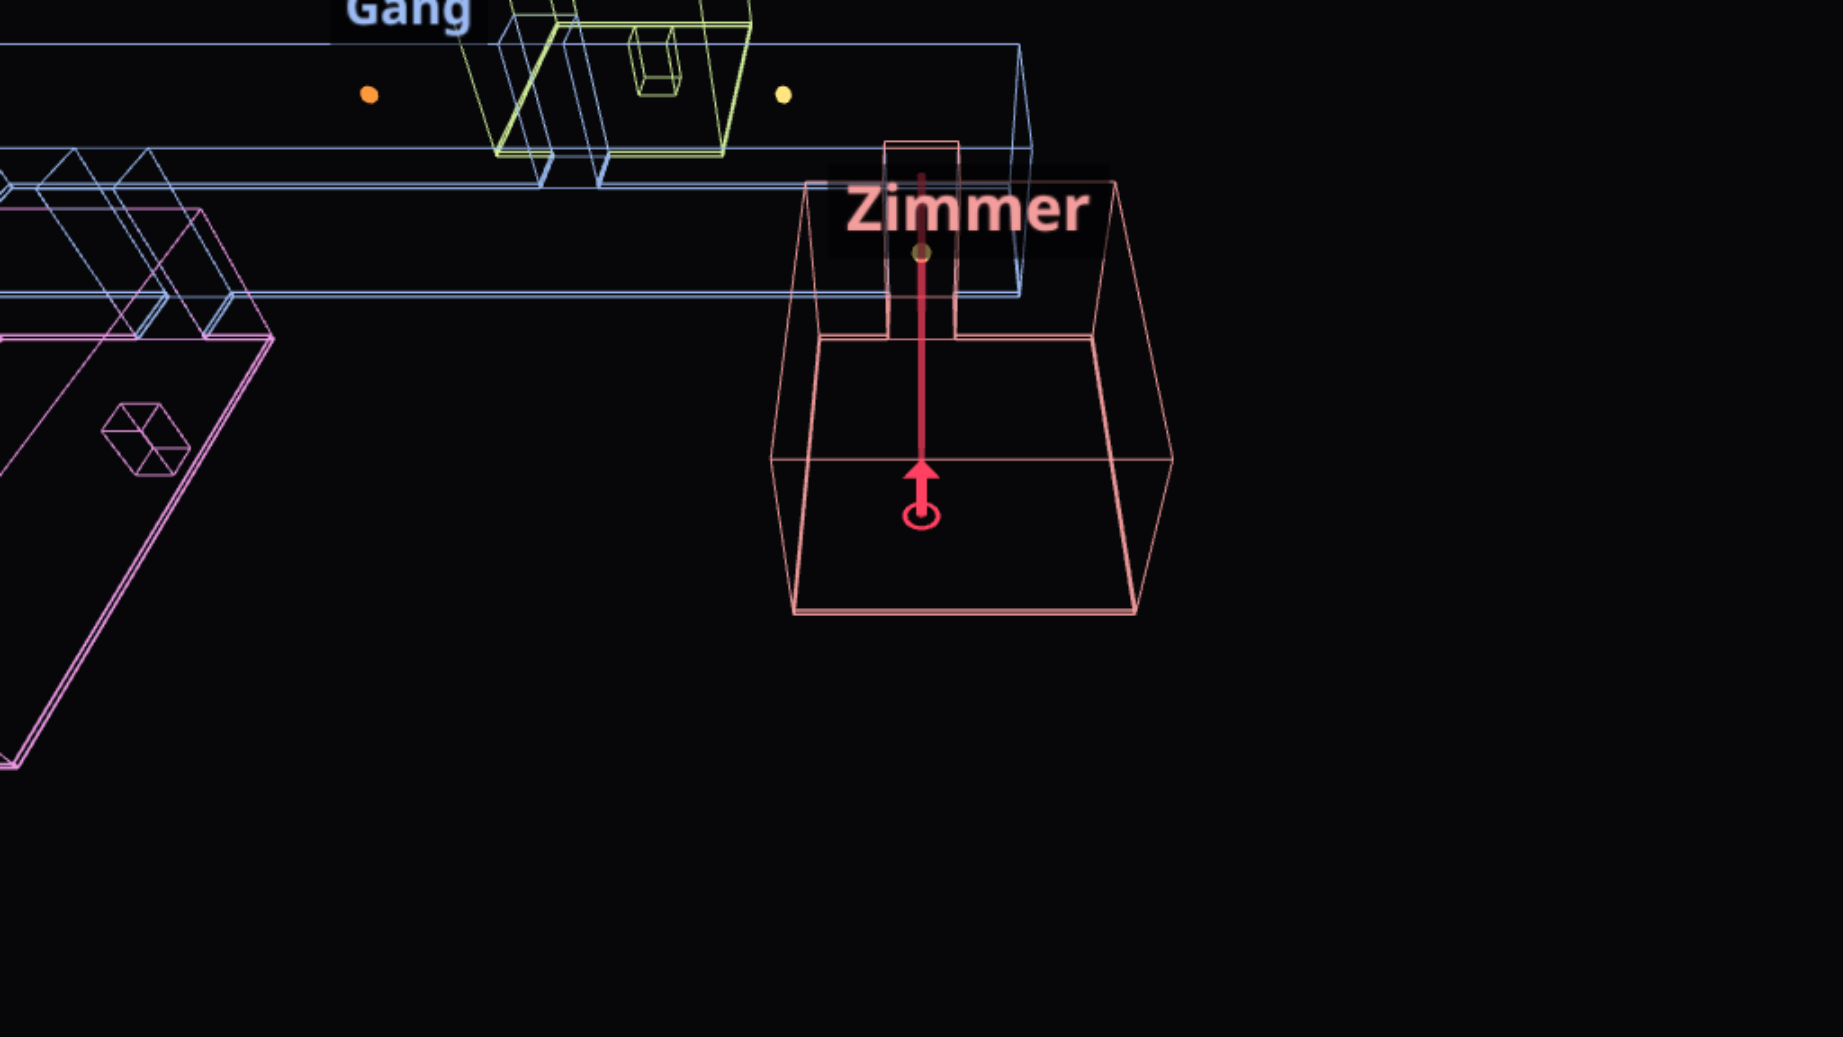
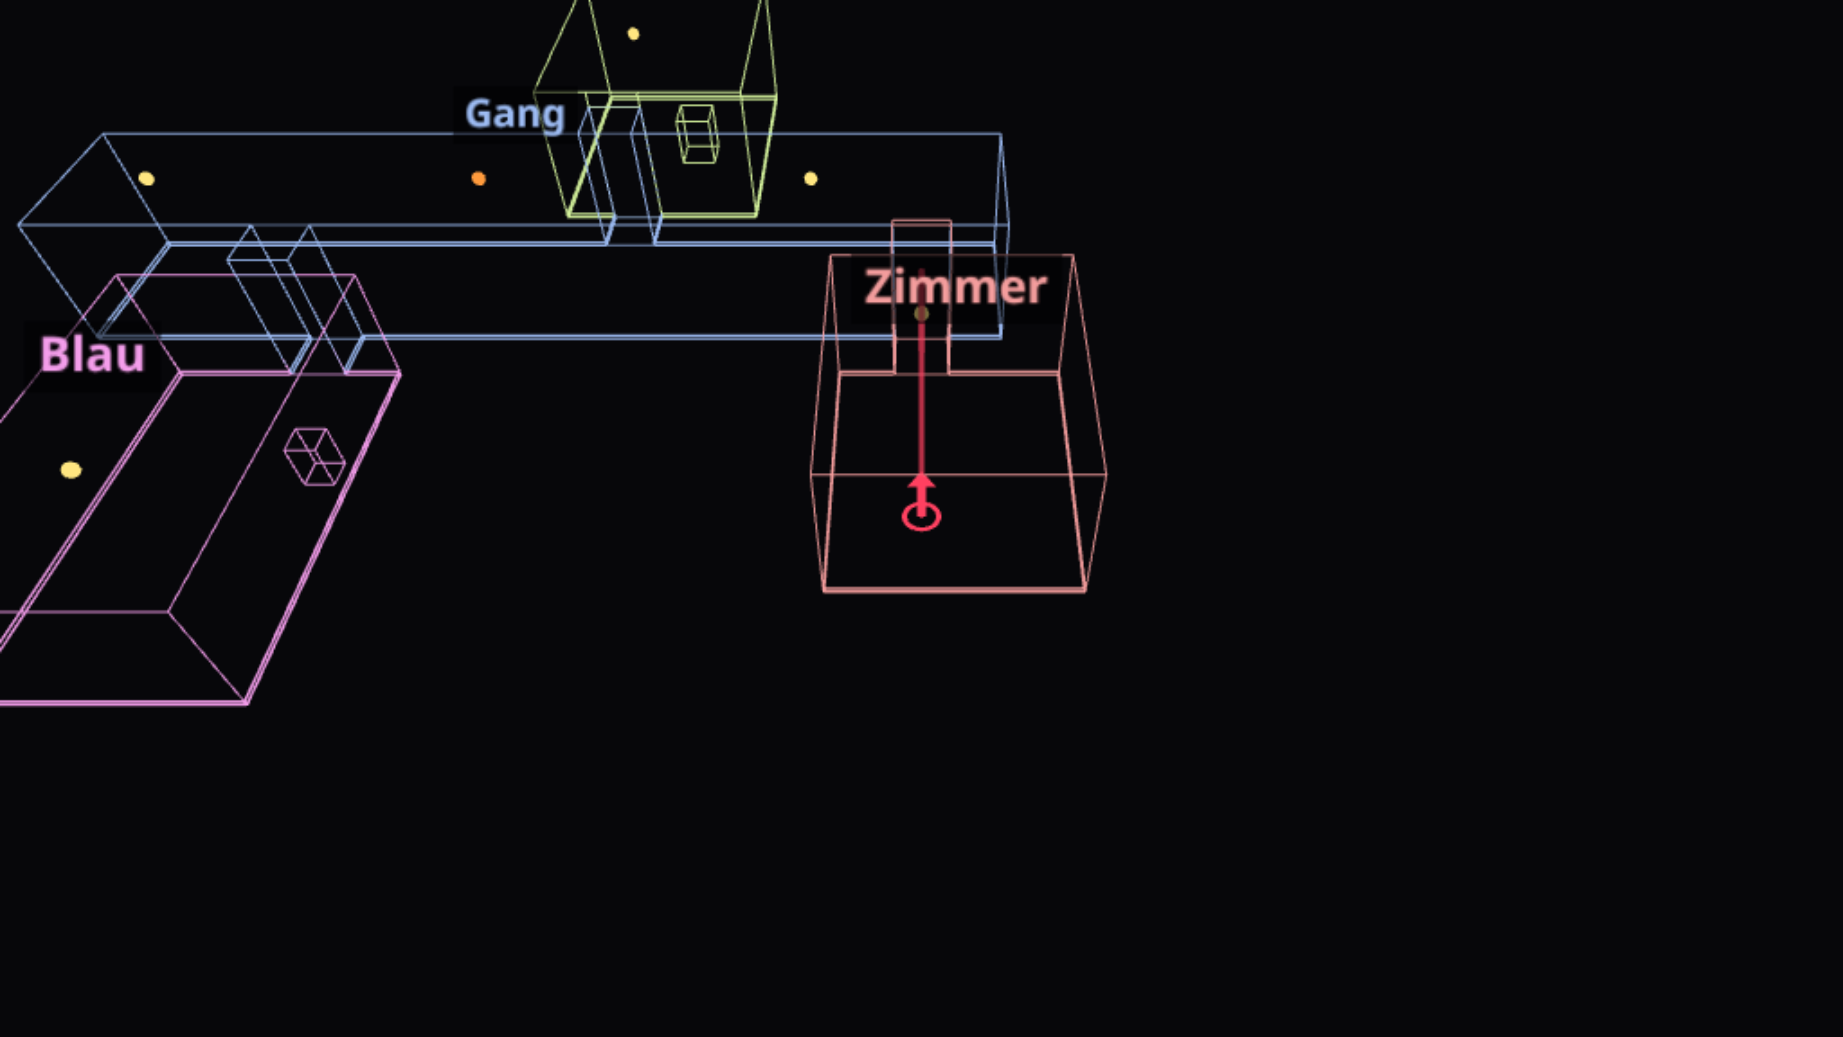
Backrooms: the hall's colour step without a flickering lamp (one sentence says it can flicker); pinned to the starter where flickering lamps bounce their light

Changed region(s): [[0.0, 0.0, 0.6495, 0.7406], [0.5258, 0.0309, 0.5567, 0.0926], [0.1856, 0.0617, 0.2165, 0.0926]]

diff --git a/src/content/level-0-c1d8a2f7/level-0-c1d8a2f7.md b/src/content/level-0-c1d8a2f7/level-0-c1d8a2f7.md
@@ -57,7 +57,7 @@ Danach liegt die Vorlage in `/workspace/backrooms-starter`:
 # Klonen wie im Handbuch »Workspace« (oben eingebunden), dann die
 # geöffnete Vorlage im Explorer, level.ini im Editor
 show-left-sidebar
-clone-start: https://github.com/specht/backrooms-starter.git @ bbc995c20b097d566b08101cdc0690a8094ace48
+clone-start: https://github.com/specht/backrooms-starter.git @ 57e8292b3a15d54f2da09082d40b4ac05d0c6b70
 press: Enter
 wait-for-input-value: /workspace/
 press: Enter
@@ -385,11 +385,9 @@ hook: info off
 
 ### Farbiges Licht
 
-Eine Leuchte vorn soll flackern, eine hinten rot leuchten. Sie bekommen eigene Buchstaben:
+Die Leuchte hinten rechts soll rot leuchten. Sie bekommt einen eigenen Buchstaben:
 
 ```room
-~ #.....S...S.#
-1...F...L...#
 ~ #...........#
 #...L...R...#
 ~ #.....S...S.#
@@ -400,14 +398,9 @@ Eine Leuchte vorn soll flackern, eine hinten rot leuchten. Sie bekommen eigene B
 light = #ff3020
 power = 3
 size = 1.2, 1.2
-
-[F]
-light = #fff3cf
-power = 1.6
-flicker = 1
 ```
 
-`light` ist die Farbe, `size` die Größe in Metern: Eine größere Leuchte wirft weichere Schatten. Das rote Licht fällt auf Wände, Boden und Säulen und wird von ihnen zurückgeworfen, rot gefärbt.
+`light` ist die Farbe, `size` die Größe in Metern: Eine größere Leuchte wirft weichere Schatten. Mit `flicker = 1` flackert eine Leuchte ab und zu, wie die in der Kammer. Das rote Licht fällt auf Wände, Boden und Säulen und wird von ihnen zurückgeworfen, rot gefärbt.
 
 <!-- tutorial-screenshot
 write-file: rooms/saal.room <- file:stufen/saal-4.room
@@ -430,7 +423,7 @@ hook: info off
 In die Mitte des Saals kommt Athena, auf einem Sockel:
 
 ```room
-~ 1...F...L...#
+~ 1...L...L...#
 #.....M.....#
 ~ #...L...R...#
 ```
